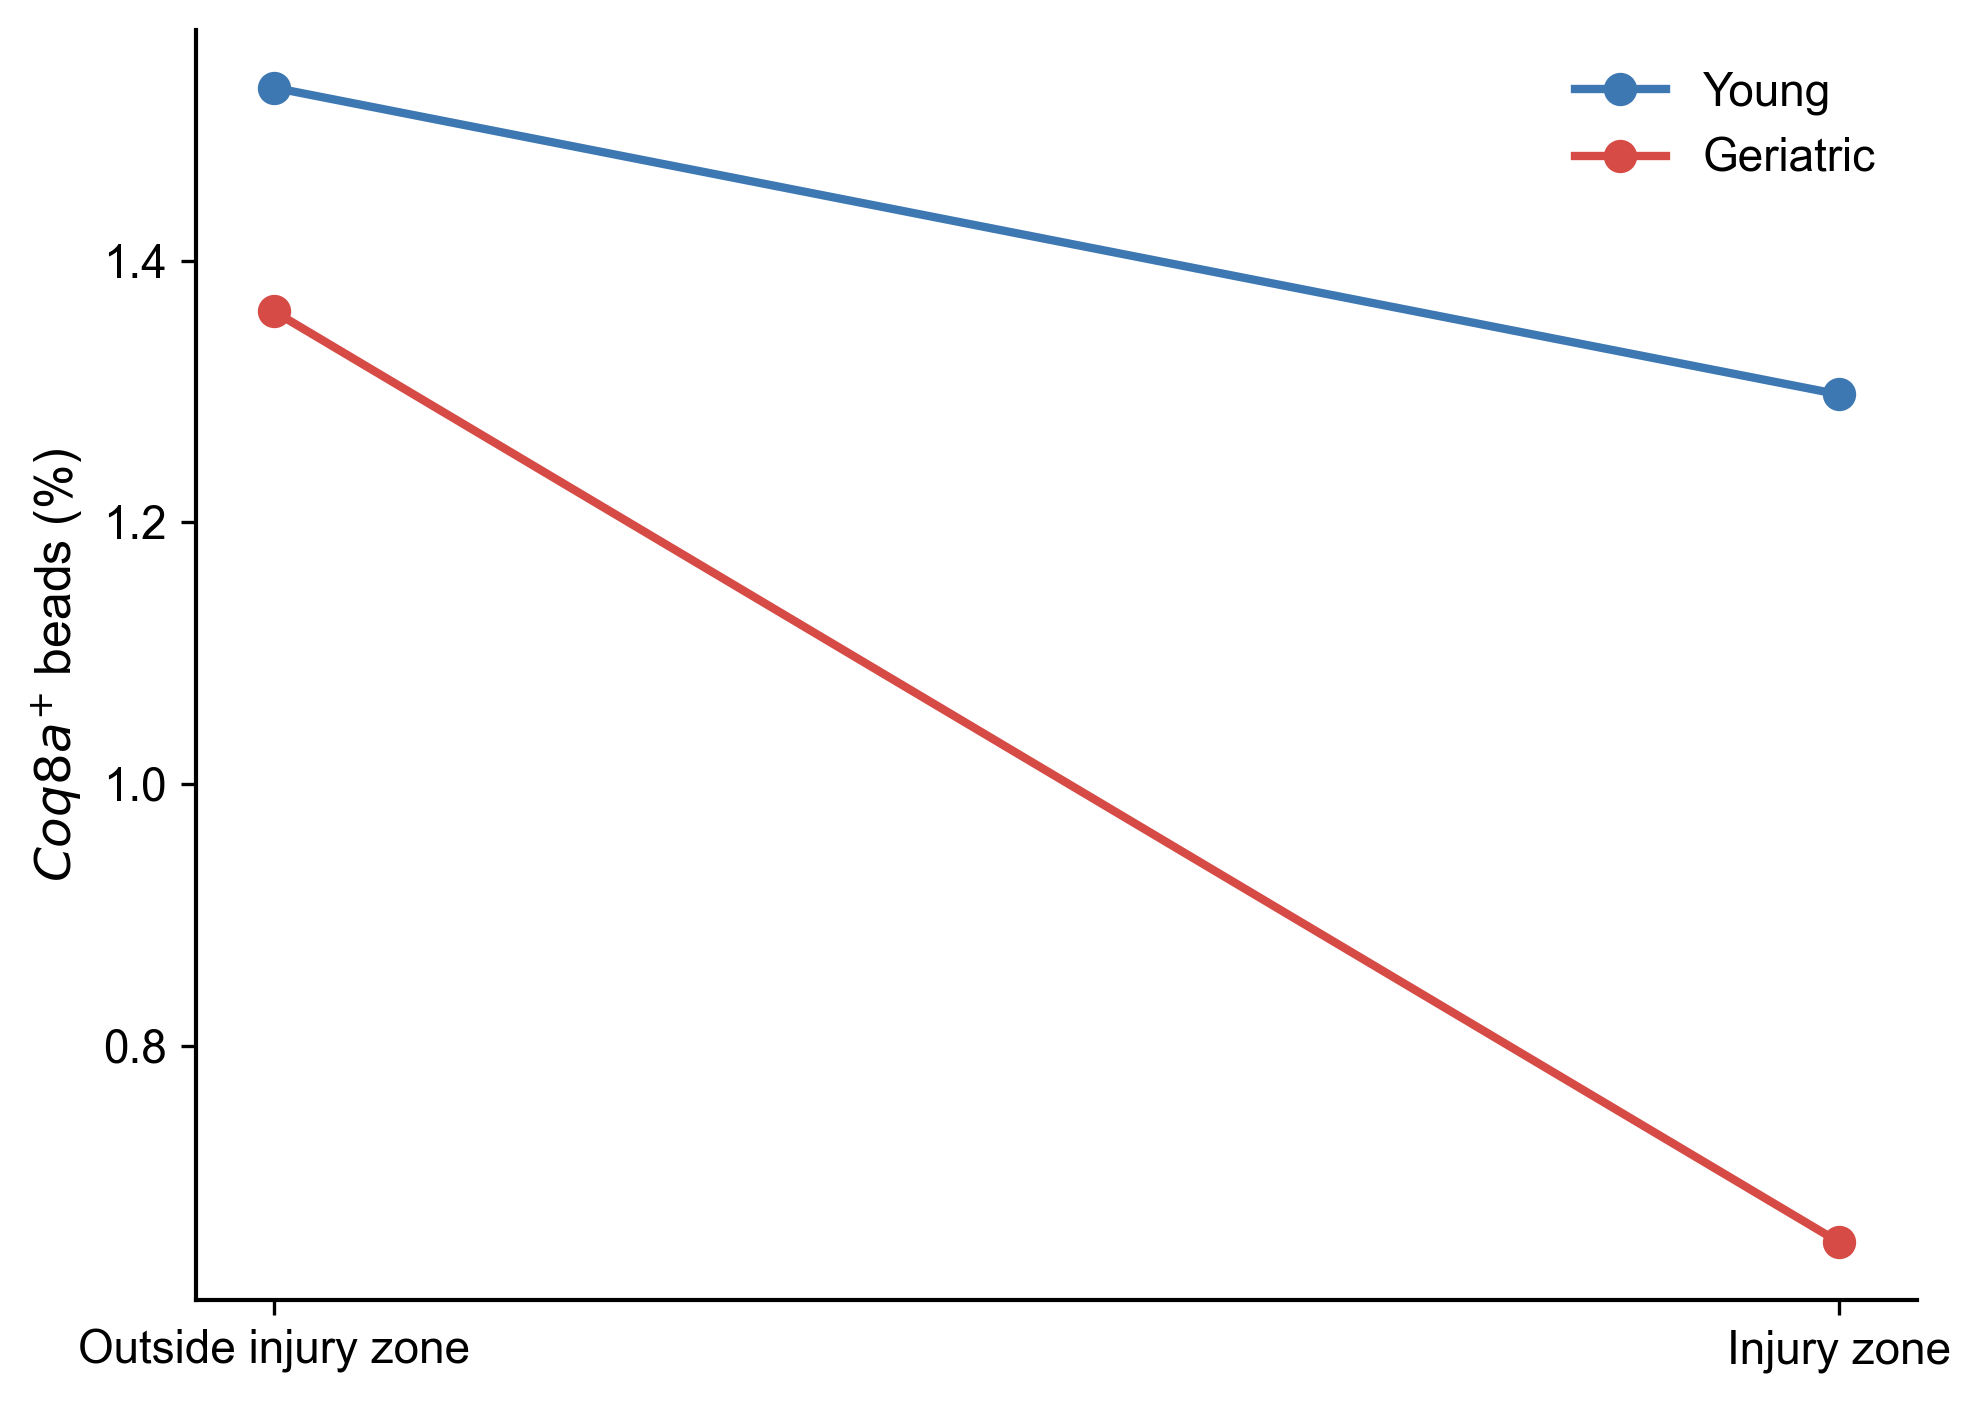
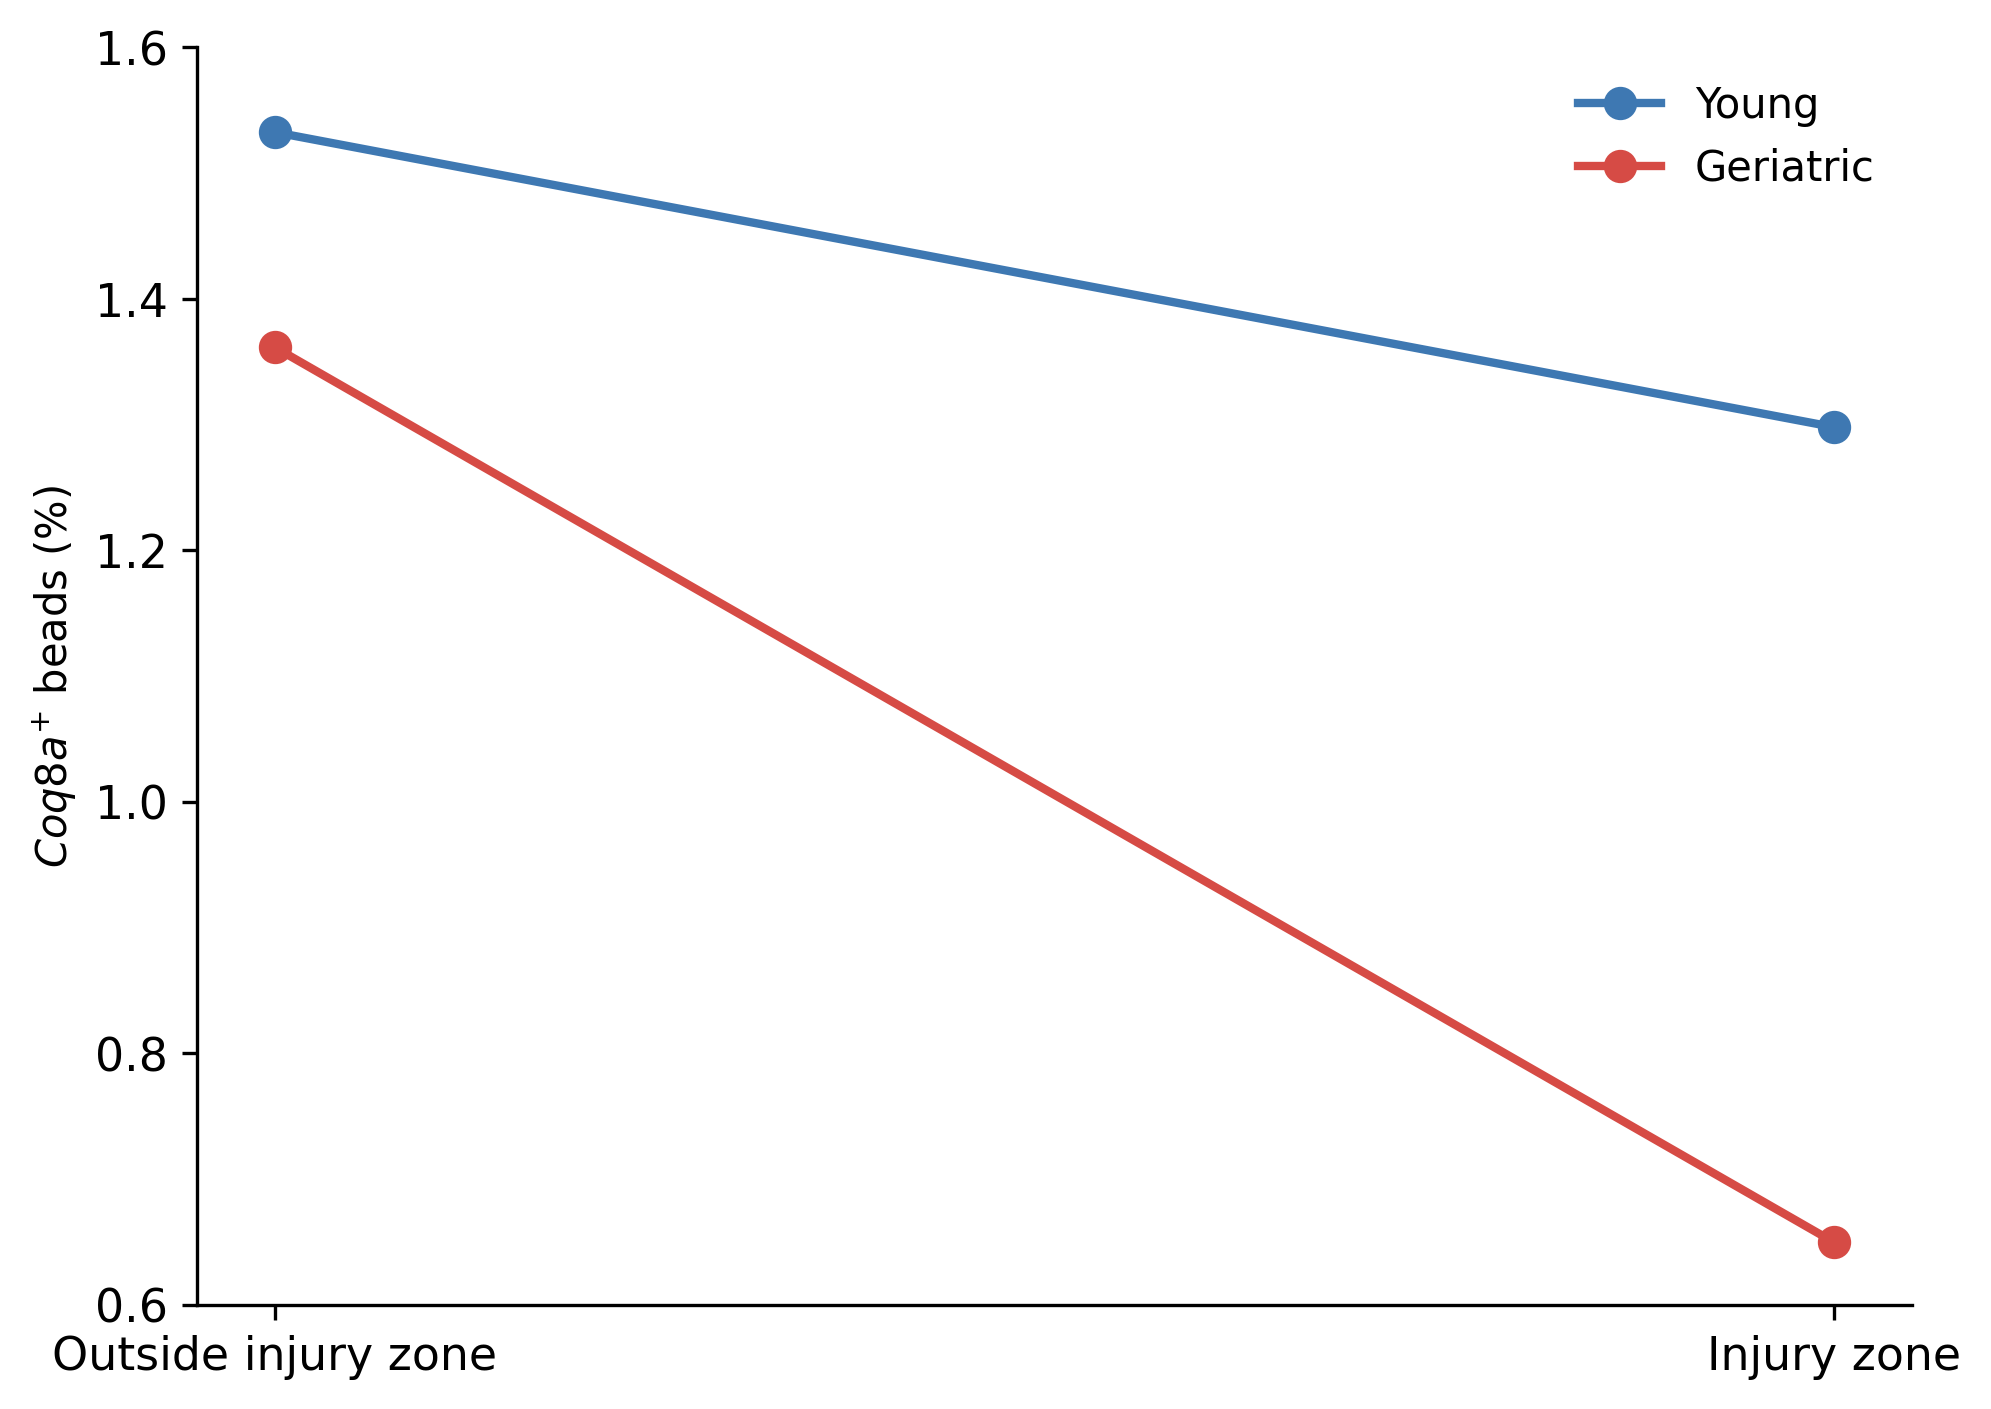
Show complete y-axis range in injury-region figure

diff --git a/code/run_spatial_analysis.py b/code/run_spatial_analysis.py
@@ -720,6 +720,8 @@ def plot_region_detection(table: pd.DataFrame, output: Path):
         data = table.loc[table["sample"].eq(sample)].set_index("region").reindex(["Outside", "Injury"])
         ax.plot([0, 1], data["coq8a_detection_pct"], marker="o", ms=7, lw=2, color=SAMPLES[sample]["color"], label=sample)
     ax.set_xticks([0, 1], ["Outside injury zone", "Injury zone"])
+    ax.set_ylim(0.6, 1.6)
+    ax.set_yticks(np.arange(0.6, 1.61, 0.2))
     ax.set_ylabel(r"$\it{Coq8a}^{+}$ beads (%)")
     ax.legend(frameon=False)
     ax.spines[["top", "right"]].set_visible(False)
